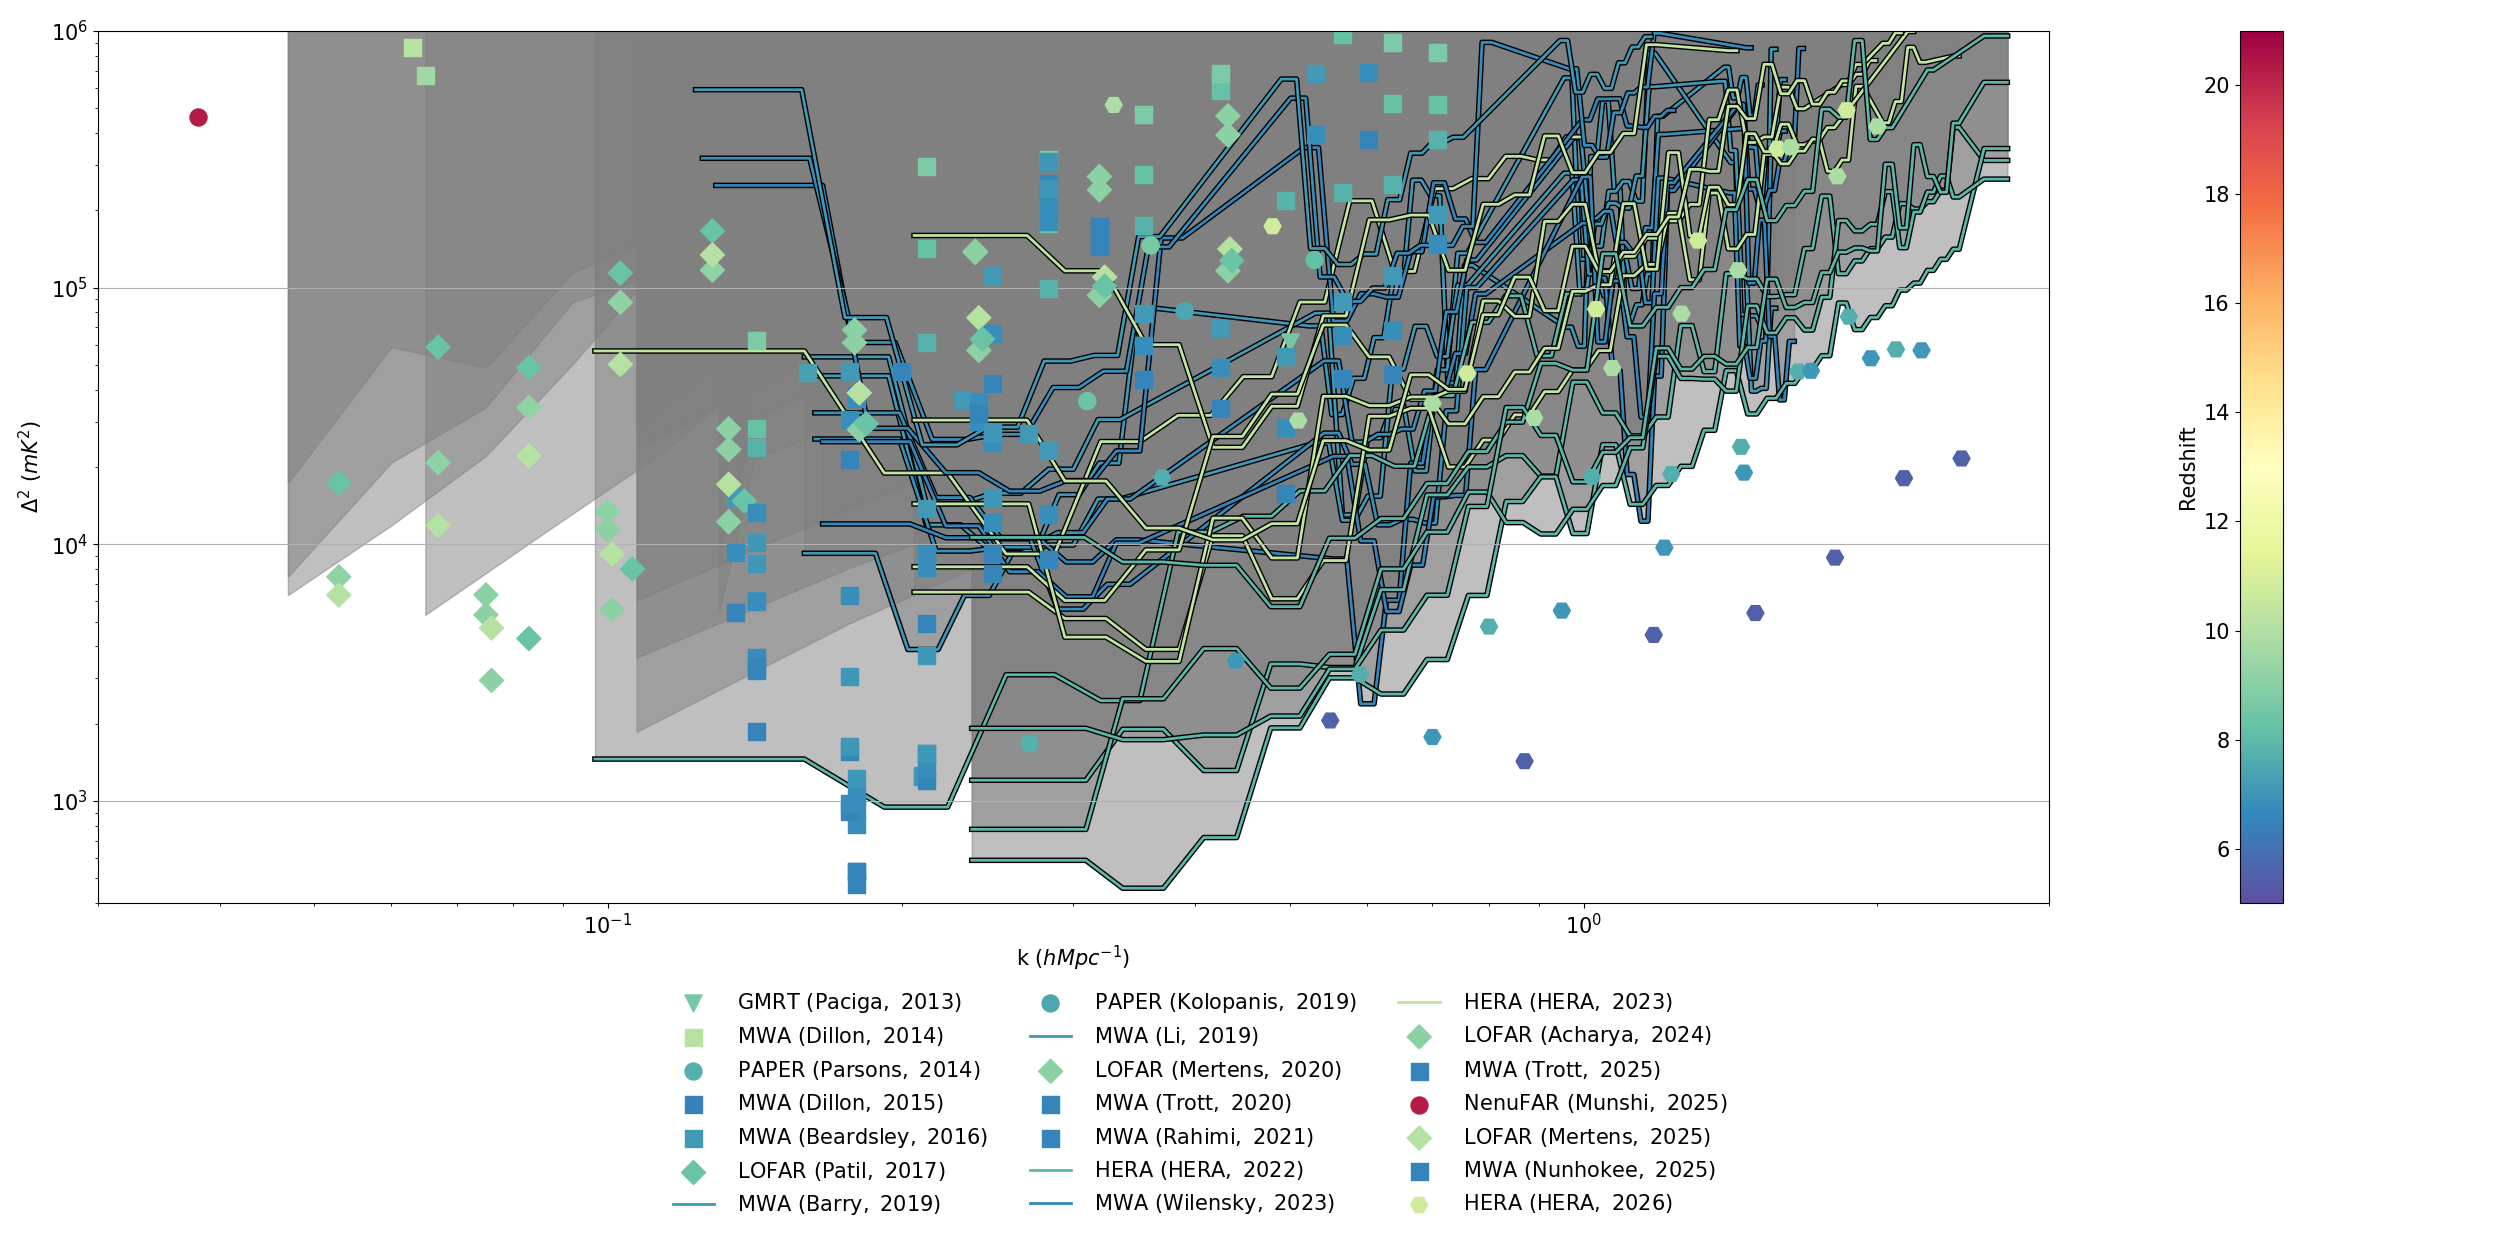
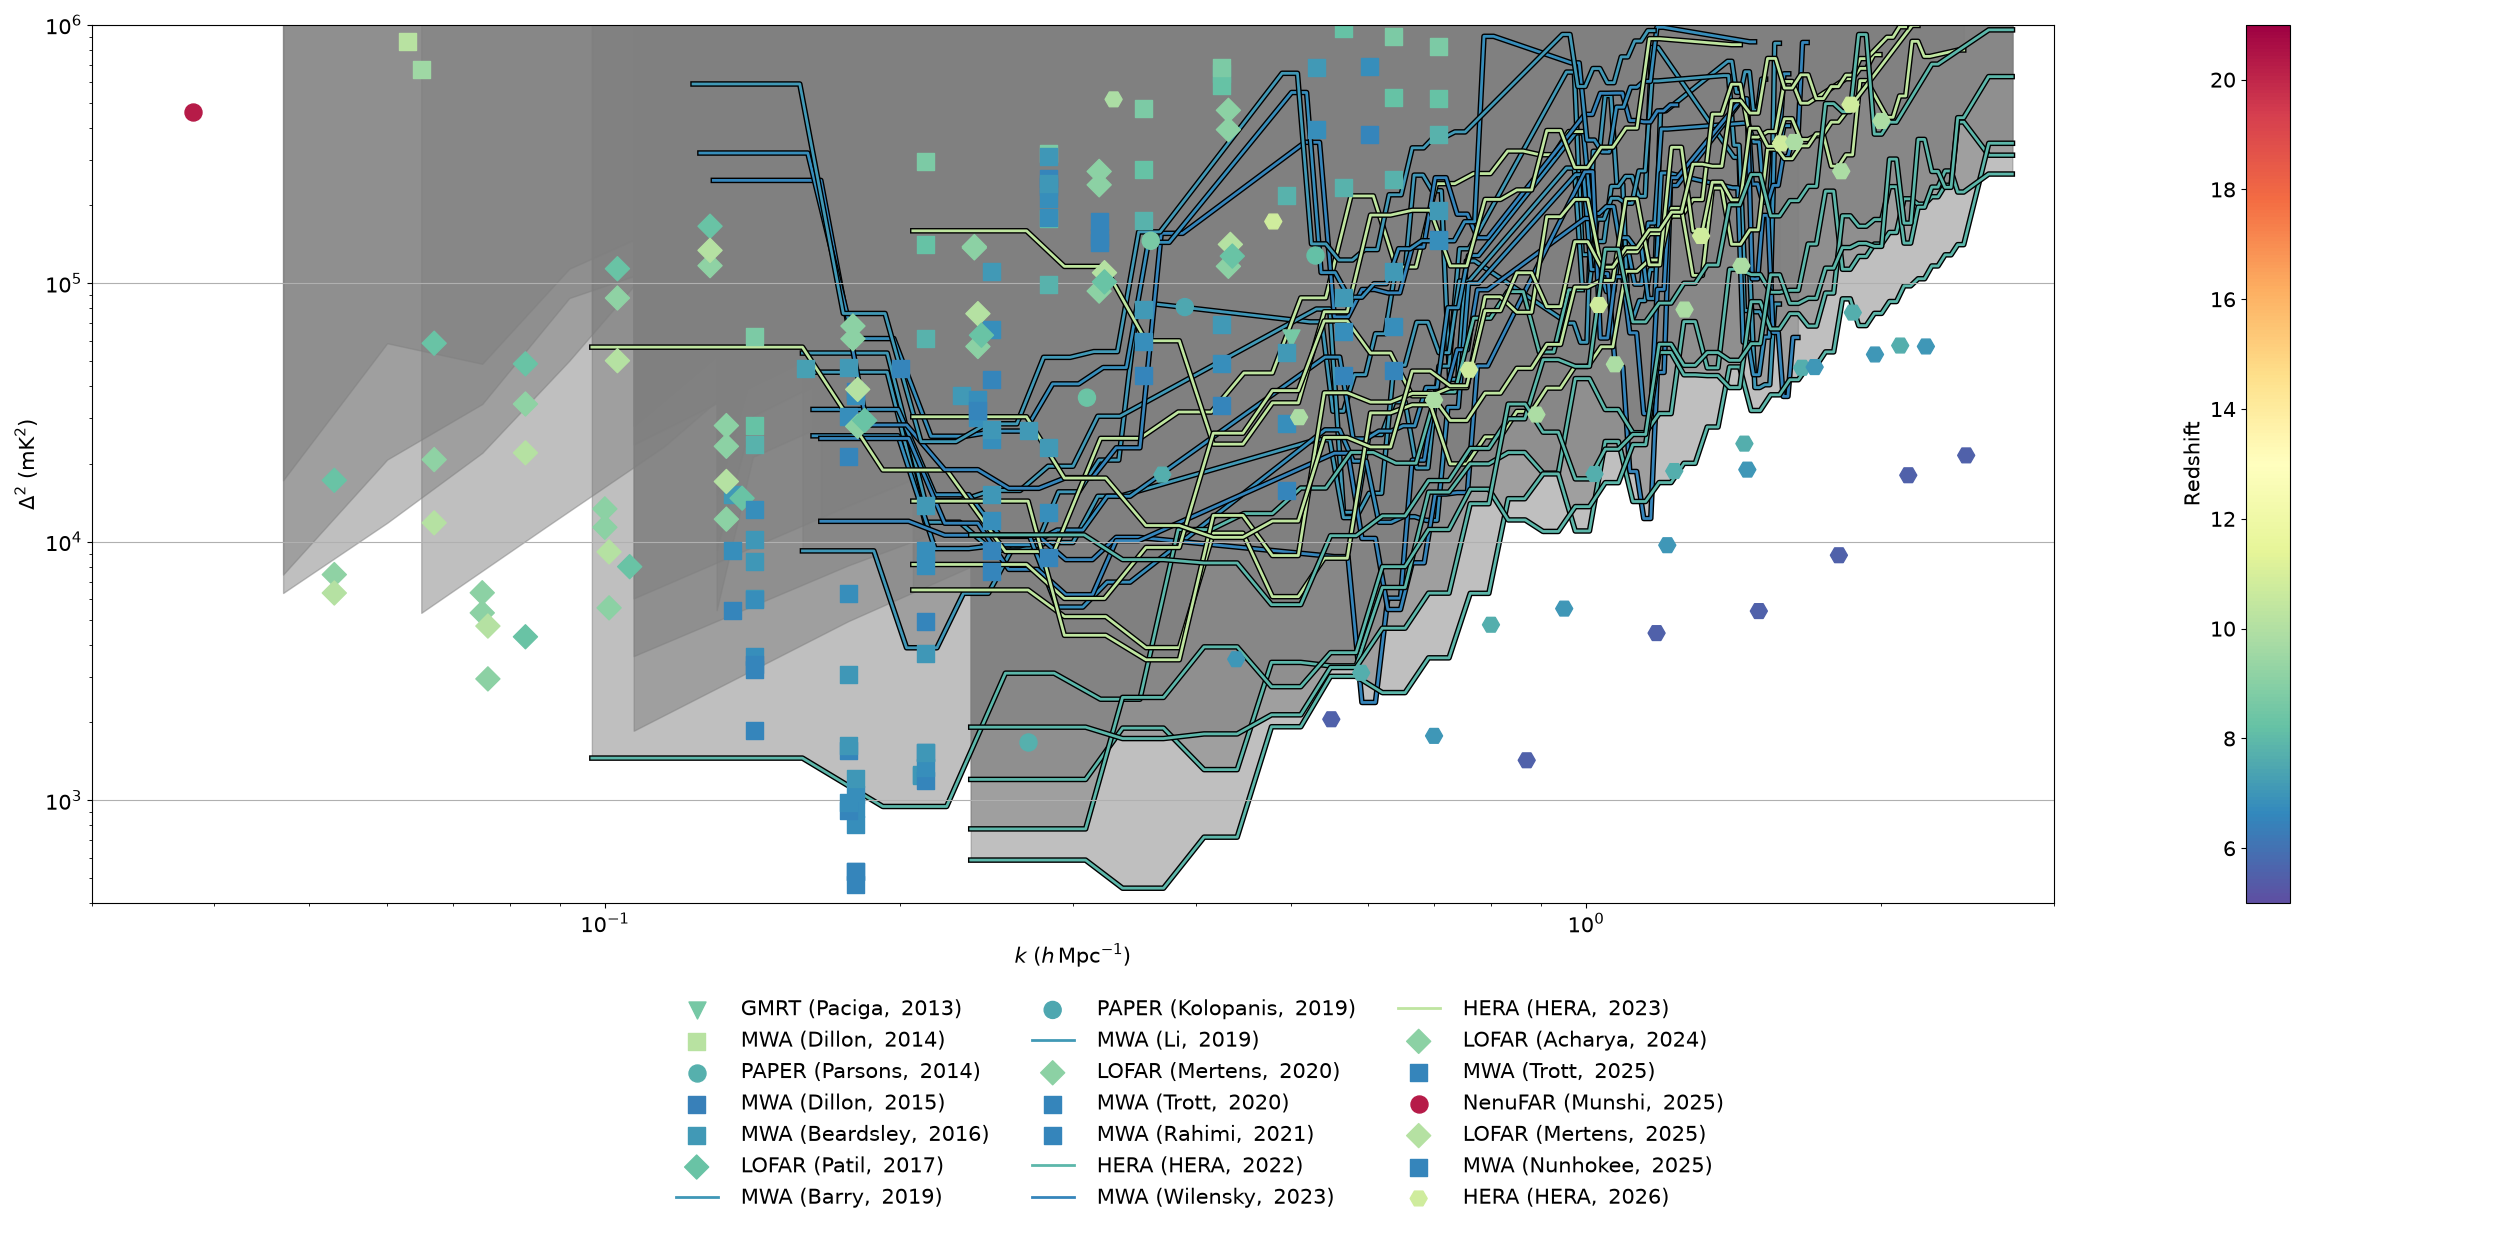
small legend and label changes; tests

diff --git a/src/eor_limits/_plot.py b/src/eor_limits/_plot.py
@@ -84,6 +84,7 @@ def plot_vs_z(
     # Output options
     fig: Annotated[plt.Figure | None, Parameter(show=False)] = None,
     ax: Annotated[plt.Axes | None, Parameter(show=False)] = None,
+    dpi: float | None = None,
     out: str | Path | None = None,
 ) -> plt.Figure:
     """
@@ -212,6 +213,9 @@ def plot_vs_z(
     ax : matplotlib.axes.Axes| None
         If specified, the axis to plot on. If not specified, a new axis
         will be created.
+    dpi : float | None (default: ``None``)
+        Resolution in dots per inch for raster output such as PNG.
+        If ``None``, Matplotlib's default save DPI is used.
     out : str | Path | None
         If specified, the file name to save the figure to.
 
@@ -308,7 +312,7 @@ def plot_vs_z(
         colorbar_label = "Year"
     else:
         color_values = k_range  # Rounded k_range
-        colorbar_label = r"k ($h Mpc^{-1}$)"
+        colorbar_label = r"$k$ ($h\,\mathrm{Mpc}^{-1}$)"
     norm = colors.Normalize(vmin=min(color_values), vmax=max(color_values))
     scalar_map = cmx.ScalarMappable(norm=norm, cmap=colormap)
 
@@ -425,7 +429,7 @@ def plot_vs_z(
 
     ax.set_xlabel(r"Redshift $z$", fontproperties=font, labelpad=sizes["label_pad"])
     ax.set_ylabel(
-        r"$\Delta^2$ ($mK^2$)", fontproperties=font, labelpad=sizes["label_pad"]
+        r"$\Delta^2$ ($\mathrm{mK}^2$)", fontproperties=font, labelpad=sizes["label_pad"]
     )
     ax.set_yscale("log")
     ax.set_ylim(*delta_squared_range)
@@ -477,9 +481,20 @@ def plot_vs_z(
 
     # Automatically choose enough columns to keep the legend below ~25%
     # of the figure height, unless the user explicitly specifies ncols.
+    # if legend_ncols is None:
+    #     max_rows = max(1, int(0.25 * fig_height / row_height))
+    #     legend_ncols = int(np.ceil(n_entries / max_rows))
     if legend_ncols is None:
         max_rows = max(1, int(0.25 * fig_height / row_height))
-        legend_ncols = int(np.ceil(n_entries / max_rows))
+        candidates = (
+            [n_entries]
+            if n_entries <= 3
+            else [n for n in (4, 3, 2) if n_entries % n == 0]
+        )
+        legend_ncols = next(
+            (n for n in candidates if np.ceil(n_entries / n) <= max_rows),
+            int(np.ceil(n_entries / max_rows)),
+        )
 
     leg_rows = int(np.ceil(n_entries / legend_ncols))
     legend_height_norm = leg_rows * row_height / fig_height
@@ -492,7 +507,7 @@ def plot_vs_z(
     ax.legend(
         limit_lines + theory_lines,
         limit_labels + theory_labels,
-        bbox_to_anchor=(0.48, legend_pad_norm + legend_height_norm / 2.0),
+        bbox_to_anchor=(0.48, legend_height_norm / 2.0),
         loc="center",
         bbox_transform=fig.transFigure,
         ncol=legend_ncols,
@@ -505,7 +520,7 @@ def plot_vs_z(
     fig.tight_layout()
 
     if out is not None:
-        fig.savefig(out)
+        fig.savefig(out, dpi=dpi)
 
     return fig
 
@@ -550,6 +565,7 @@ def plot_vs_k(
     # Output options
     fig: Annotated[plt.Figure | None, Parameter(show=False)] = None,
     ax: Annotated[plt.Axes | None, Parameter(show=False)] = None,
+    dpi: float | None = None,
     out: str | Path | None = None,
 ) -> plt.Figure:
     """
@@ -681,6 +697,9 @@ def plot_vs_k(
     ax : matplotlib.axes.Axes| None
         If specified, the axis to plot on. If not specified, a new axis
         will be created.
+    dpi : float | None (default: ``None``)
+        Resolution in dots per inch for raster output such as PNG.
+        If ``None``, Matplotlib's default save DPI is used.
     out : str | Path | None
         If specified, the file name to save the figure to.
 
@@ -896,9 +915,9 @@ def plot_vs_k(
     ###################################################################################
     # PLOT ADJUSTMENTS
 
-    ax.set_xlabel(r"k ($h Mpc^{-1}$)", fontproperties=font, labelpad=sizes["label_pad"])
+    ax.set_xlabel(r"$k$ ($h\,\mathrm{Mpc}^{-1}$)", fontproperties=font, labelpad=sizes["label_pad"])
     ax.set_ylabel(
-        r"$\Delta^2$ ($mK^2$)", fontproperties=font, labelpad=sizes["label_pad"]
+        r"$\Delta^2$ ($\mathrm{mK}^2$)", fontproperties=font, labelpad=sizes["label_pad"]
     )
     ax.set_yscale("log")
     ax.set_xscale("log")
@@ -951,9 +970,20 @@ def plot_vs_k(
 
     # Automatically choose enough columns to keep the legend below ~25%
     # of the figure height, unless the user explicitly specifies ncols.
+    # if legend_ncols is None:
+    #     max_rows = max(1, int(0.25 * fig_height / row_height))
+    #     legend_ncols = int(np.ceil(n_entries / max_rows))
     if legend_ncols is None:
         max_rows = max(1, int(0.25 * fig_height / row_height))
-        legend_ncols = int(np.ceil(n_entries / max_rows))
+        candidates = (
+            [n_entries]
+            if n_entries <= 3
+            else [n for n in (4, 3, 2) if n_entries % n == 0]
+        )
+        legend_ncols = next(
+            (n for n in candidates if np.ceil(n_entries / n) <= max_rows),
+            int(np.ceil(n_entries / max_rows)),
+        )
 
     leg_rows = int(np.ceil(n_entries / legend_ncols))
     legend_height_norm = leg_rows * row_height / fig_height
@@ -966,12 +996,12 @@ def plot_vs_k(
     ax.legend(
         limit_lines + theory_lines,
         limit_labels + theory_labels,
-        bbox_to_anchor=(0.48, legend_pad_norm + legend_height_norm / 2.0),
+        bbox_to_anchor=(0.48, legend_height_norm / 2.0),
         loc="center",
         bbox_transform=fig.transFigure,
         ncol=legend_ncols,
         frameon=False,
-        prop=font,
+        prop=legend_font,
         **sizes["legend_kwargs"],
     )
 
@@ -979,7 +1009,7 @@ def plot_vs_k(
     fig.tight_layout()
 
     if out is not None:
-        fig.savefig(out)
+        fig.savefig(out, dpi=dpi)
 
     return fig
 
@@ -1419,41 +1449,33 @@ def _get_font_properties(
         Font properties for legend plot text.
     """
     # Use Times by default for publication plots.
-    if publication_font is None and publication:
-        publication_font = "times"
-
     if publication_font is None:
-        font = fm.FontProperties(size=fontsize)
-    elif publication_font.lower() == "times":
-        font = fm.FontProperties(
-            family="Times",
-            style="normal",
-            size=fontsize,
-            weight="normal",
-        )
-        plt.rcParams.update({
-            "text.usetex": True,
-            "font.family": "serif",
-            "font.serif": ["Times New Roman", "Times"],
-            "text.latex.preamble": (
-                r"\usepackage{newtxtext}"
-                r"\usepackage{newtxmath}"
-            ),
-        })
-    elif publication_font.lower() == "dejavu":
-        font = fm.FontProperties(
-            family="DejaVu Sans",
-            style="normal",
-            size=fontsize,
-            weight="normal",
-        )
-        plt.rcParams.update({
-            "text.usetex": False,
-            "font.family": "DejaVu Sans",
-            "mathtext.fontset": "dejavusans",
-        })
-    else:
+        publication_font = "times" if publication else "dejavu"
+
+    font_name = publication_font.lower()
+    if font_name not in {"times", "dejavu"}:
         raise ValueError("publication_font must be 'times', 'dejavu', or None.")
+
+    is_times = font_name == "times"
+
+    font = fm.FontProperties(
+        family="Times" if is_times else "DejaVu Sans",
+        style="normal",
+        size=fontsize,
+        weight="normal",
+    )
+
+    plt.rcParams.update({
+        "text.usetex": is_times,
+        "font.family": "serif" if is_times else "DejaVu Sans",
+        "font.serif": ["Times New Roman", "Times"],
+        "mathtext.fontset": "dejavusans",
+        "text.latex.preamble": (
+            r"\usepackage{newtxtext}\usepackage{newtxmath}"
+            if is_times
+            else ""
+        ),
+    })
 
     legend_font = font.copy()
     legend_font.set_size(fontsize * legend_fontscale)

diff --git a/tests/test_lib_plotting.py b/tests/test_lib_plotting.py
@@ -31,6 +31,16 @@ def test_lib_plot_vs_k_with_fig_styling():
     assert fig is not None
 
 
+def test_lib_plot_vs_k_with_publication():
+    """Test making a publication-style plot."""
+    fig = plot_vs_k(
+        publication=True,
+        dpi=300,
+        out=OUTPUT_DIR / "test_lib_plot_vs_k_with_publication.png",
+    )
+    assert fig is not None
+
+
 def test_lib_plot_vs_k_with_z_range():
     """Test making a plot with redshift range filtering."""
     fig = plot_vs_k(
@@ -188,7 +198,7 @@ def test_lib_plot_vs_z_basic():
     fig = plot_vs_z(out=OUTPUT_DIR / "test_lib_plot_vs_z_basic.png")
     assert fig is not None
     assert len(fig.axes) == 2
-    assert fig.axes[1].get_ylabel() == r"k ($h Mpc^{-1}$)"
+    assert fig.axes[1].get_ylabel() == r"$k$ ($h\,\mathrm{Mpc}^{-1}$)"
 
 
 def test_lib_plot_vs_z_with_fig_styling():
@@ -198,6 +208,16 @@ def test_lib_plot_vs_z_with_fig_styling():
         colormap="viridis",
         fig_ratio=1.0,
         out=OUTPUT_DIR / "test_lib_plot_vs_z_with_fig_styling.png",
+    )
+    assert fig is not None
+
+
+def test_lib_plot_vs_z_with_publication():
+    """Test making a publication-style plot."""
+    fig = plot_vs_z(
+        publication=True,
+        dpi=300,
+        out=OUTPUT_DIR / "test_lib_plot_vs_z_with_publication.png",
     )
     assert fig is not None
 

diff --git a/tests/test_cli_plotting.py b/tests/test_cli_plotting.py
@@ -94,6 +94,13 @@ def test_cli_plot_vs_k_with_fig_styling():
     _assert_images_match("plot_vs_k", "with_fig_styling", out)
 
 
+def test_cli_plot_vs_k_with_publication():
+    """Test making a publication-style plot through the CLI."""
+    out = OUTPUT_DIR / "test_cli_plot_vs_k_with_publication.png"
+    _run_plot_vs_k("--publication", "--dpi", "300", "--out", str(out), expect_success=True)
+    _assert_images_match("plot_vs_k", "with_publication", out)
+
+
 def test_cli_plot_vs_k_with_z_range():
     """Test making a plot with redshift range filtering through the CLI."""
     out = OUTPUT_DIR / "test_cli_plot_vs_k_with_z_range.png"
@@ -309,6 +316,13 @@ def test_cli_plot_vs_z_with_fig_styling():
         expect_success=True,
     )
     _assert_images_match("plot_vs_z", "with_fig_styling", out)
+
+
+def test_cli_plot_vs_z_with_publication():
+    """Test making a publication-style plot through the CLI."""
+    out = OUTPUT_DIR / "test_cli_plot_vs_z_with_publication.png"
+    _run_plot_vs_z("--publication", "--dpi", "300", "--out", str(out), expect_success=True)
+    _assert_images_match("plot_vs_z", "with_publication", out)
 
 
 def test_cli_plot_vs_z_with_z_range():
